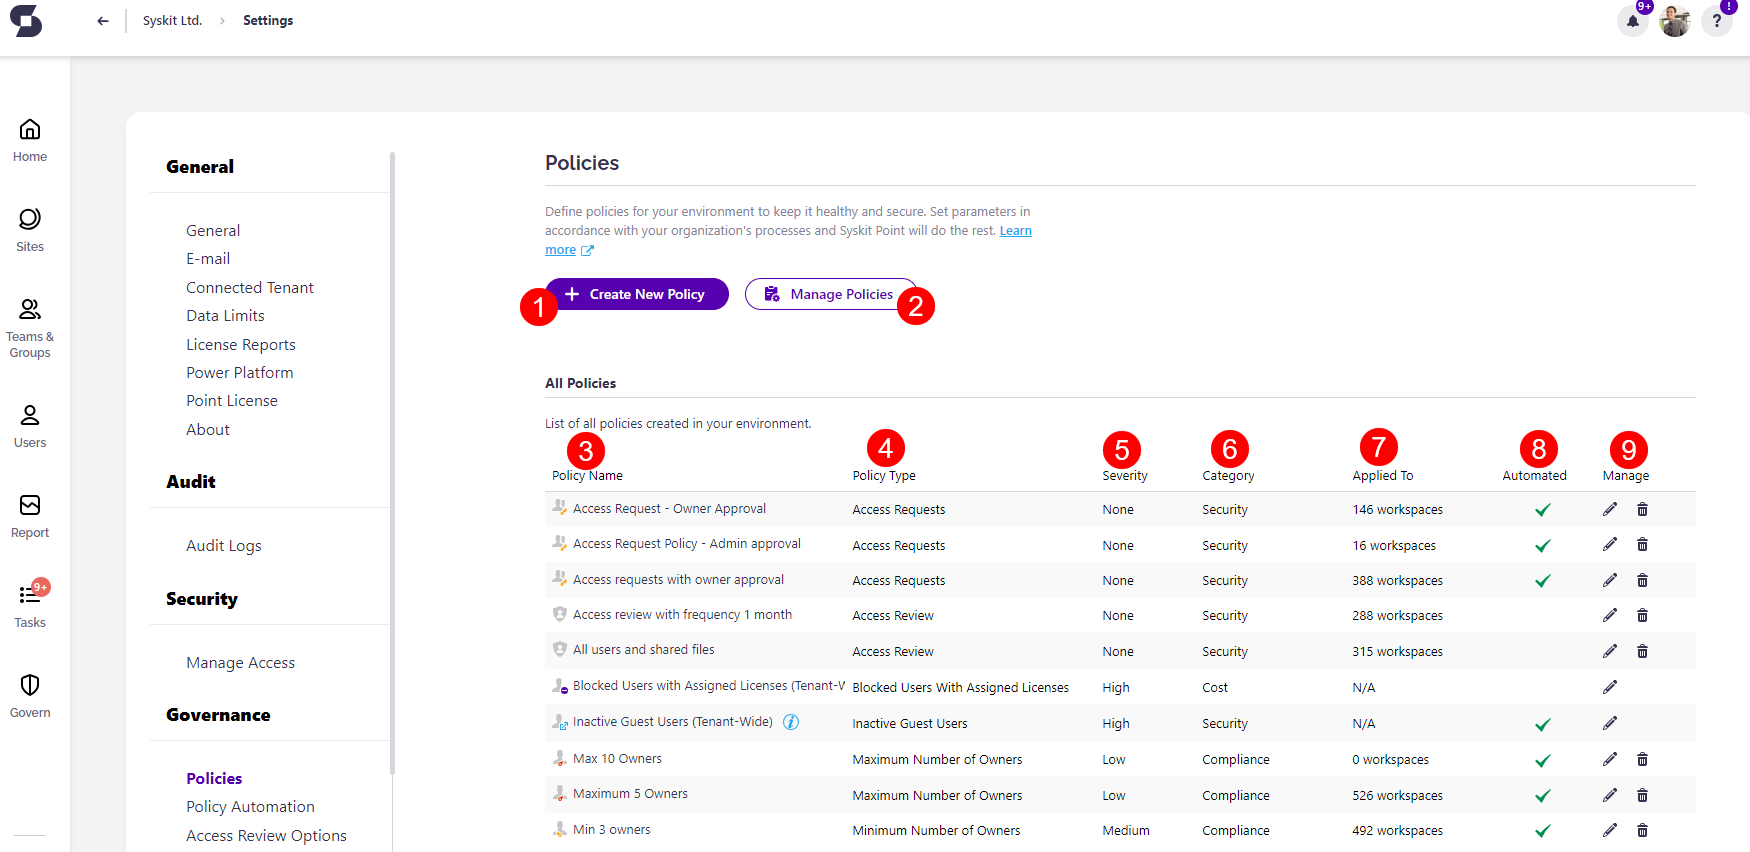
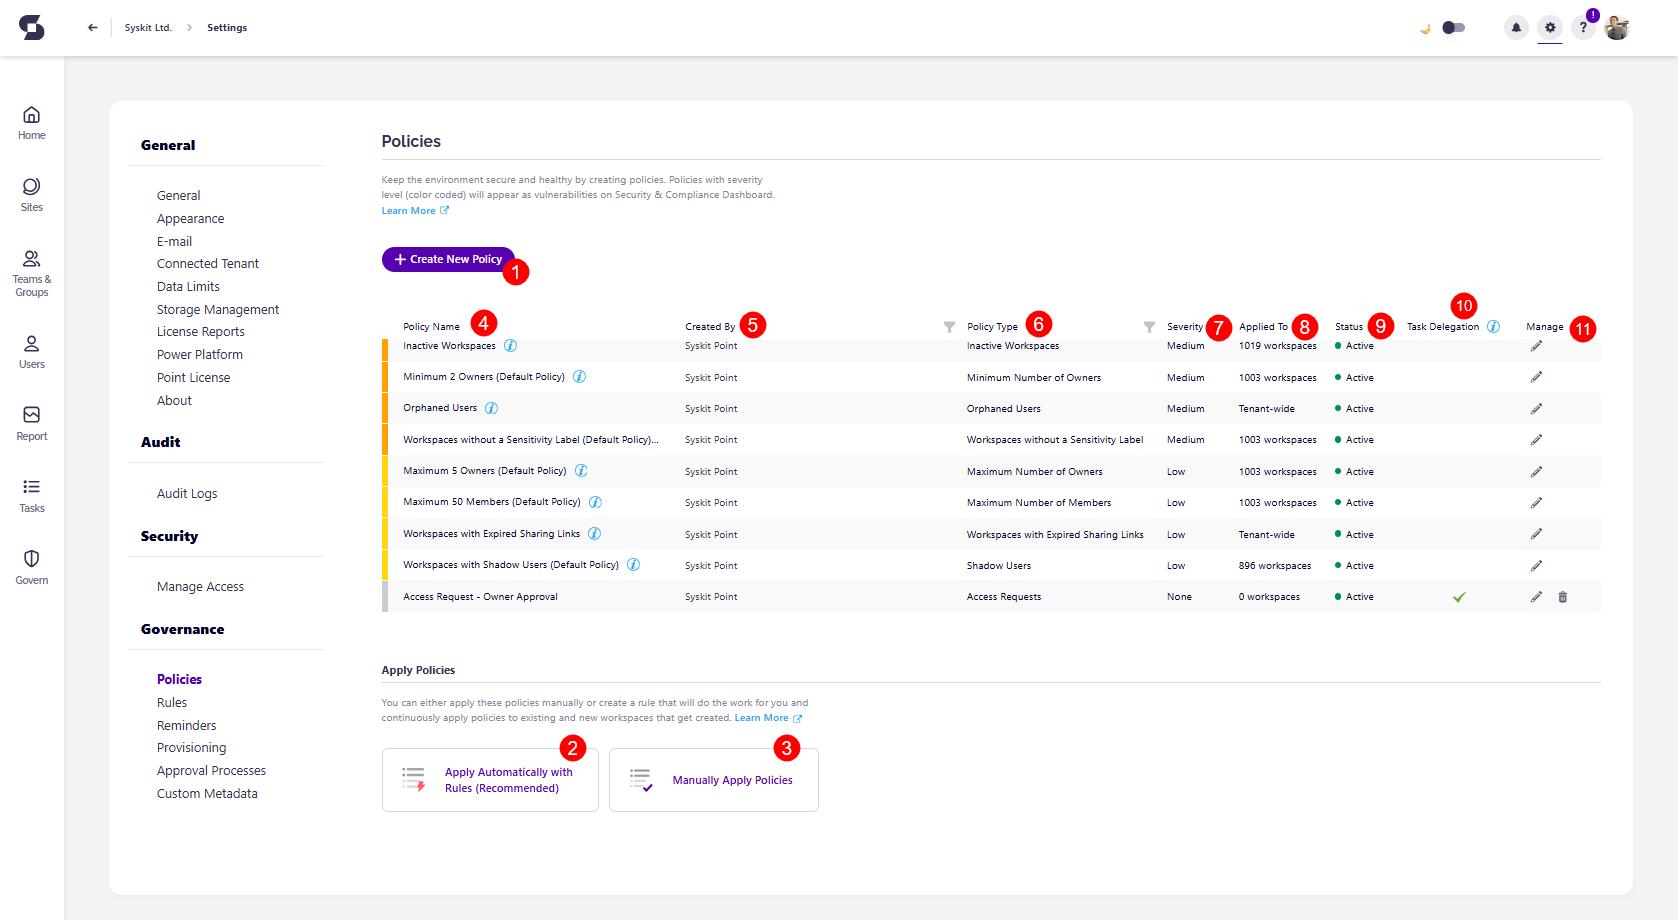
updates & fixes

diff --git a/docs/governance-and-automation/automated-workflows/set-up-policies.md b/docs/governance-and-automation/automated-workflows/set-up-policies.md
@@ -18,7 +18,7 @@ To use the advantages of Policies in Syskit Point, you need to:
 Additionally, you can also [set up policy rules](../../governance-and-automation/automated-workflows/policy-automation.md) to have policies automatically applied to current and all future workspaces without having to assign them manually. 
 
 :::warning
-**Please note!**
+**Please note!**\
 Only users assigned the role of **Syskit Point Admin** can access and configure Settings in Syskit Point.
 :::
 
@@ -58,6 +58,7 @@ Task Delegation can be enabled in policy settings for each policy listed below.
 
 **When task delegation is enabled, Syskit Point creates tasks and sends emails to users as defined in the policy settings**.
 
+:::warning
 **Please note!**\
 Summarized policy vulnerability emails will be gradually rolled out, beginning with the Point Cloud 2024.2.45 release.
 After this change, Syskit Point will no longer send individual e-mails for each workspace or user where a policy vulnerability was discovered.  
@@ -72,7 +73,8 @@ After this change, Syskit Point will no longer send individual e-mails for each 
 * **When you acquire Syskit Point, default policies are created with task delegation disabled.** Edit the default policies settings to enable task delegation.
 
 :::info
-**Please note!** If a user, security group, or mail-enabled security group is added to the Governance-Excluded Users list, they do not receive any Governance-related tasks or task-related e-mails. [For more details on setting up Governance-Excluded Users, take a look at this article.](../../configuration/exclude-users-tasks.md)
+**Please note!**\
+ If a user, security group, or mail-enabled security group is added to the Governance-Excluded Users list, they do not receive any Governance-related tasks or task-related e-mails. [For more details on setting up Governance-Excluded Users, take a look at this article.](../../configuration/exclude-users-tasks.md)
 :::
 
 ## Syskit Point Policies
@@ -122,10 +124,16 @@ To **open the Policies settings screen**, navigate to **Settings** &gt; **Govern
 
 Here, you can:
 * **Create a new policy (1)**
-* **Manage and apply policies to Microsoft Teams, Microsoft 365 Groups, OneDrive, and sites (2)**
-* **View all predefined policies by name (3)**; Syskit Point comes with multiple predefined policies to help you get started.
-* **View additional information about each policy**; the following information is available: **policy type (4)**, **severity of policy(5)**, **category policy fits under (6)**, **to how many workspaces a policy is applied (7)**, and **whether the policy is automated or not (8)**
-* **Manage policies (9)**; **Edit** and **Delete** actions are provided for each policy, **except for those applied tenant-wide and the default policies used by the default rule.**
+* **Apply policies to workspaces based on conditions via Rules (2) or manually (3) by selecting the desired workspaces**.
+* **View all predefined policies by name (4)**; Syskit Point comes with multiple predefined policies to help you get started.
+* **View additional information about each policy**:
+  * **Created By (5)**
+  * **Policy Type (6)**
+  * **Severity (7)**,
+  * **To how many workspaces a policy is applied (8)**
+  * **Status (9)**  
+  * **Task Delegation (10)** status - Enabled or not
+* **Manage policies (11)**; **Edit** and **Delete** actions are provided for each policy, **except for those applied tenant-wide and the default policies used by the default rule, which cannot be deleted.**
 
 ![Policy Settings](../../../static/img/set-up-policies-settings.png)
 
@@ -140,10 +148,12 @@ When you decide to modify existing governance policies, there is a notification 
   * Once changes are made, previously detected vulnerabilities and tasks are examined again and closed if the workspace no longer violates the defined parameters. 
   * All workspaces are rechecked; if any vulnerabilities now exist, they are detected, and tasks are created if needed.
  * **Turning on the task delegation for the first time results in tasks being created and emails being sent** within 24 hours.
-* **Modifying the task delegation options**, in case the task delegation is already enabled for a policy, results in new options being applied to future vulnerabilities. **Existing tasks stay the same.
+* **Modifying the task delegation options**, in case the task delegation is already enabled for a policy, results in new options being applied to future vulnerabilities. 
+* **Existing tasks stay the same**.
 
 :::info
-**Hint**! If you want to apply new task delegation options to all tasks, turn off task delegation - which closes all existing tasks - and turn it on again, which creates new tasks with the new settings applied. 
+**Hint**!\
+ If you want to apply new task delegation options to all tasks, turn off task delegation - which closes all existing tasks - and turn it on again, which creates new tasks with the new settings applied. 
 
 :::
 

diff --git a/docs/governance-and-automation/security-compliance-checks/overview.md b/docs/governance-and-automation/security-compliance-checks/overview.md
@@ -11,8 +11,8 @@ The **Security and Compliance Checks**, visible directly on your Syskit Point ho
 Collecting all the important information about the security and compliance state of your environment is a time-consuming and repetitive administration task. **Syskit Point performs regular security and compliance checks** for you, and **presents the results directly on your home screen**.
 
 :::info
-**Please note:** The Security and Compliance checks **email is sent to Syskit Point admins weekly**, on Wednesdays.
-
+**Please note!**\
+The Security and Compliance checks **email is sent to Syskit Point admins weekly**, on Wednesdays.
 * If there are no vulnerabilities in your environment, no email is sent.
 * If Wednesday is less than 2 days from your installation date, the email will be sent next week.
 :::
@@ -79,5 +79,6 @@ Take a look at the following articles to learn how to settle your security and c
 * [**Workspaces with shadow users**](workspaces-with-shadow-users.md)
 
 :::warning
-**Please note!**   In case you have any security and compliance checks that need to be resolved, an **email is automatically sent each Wednesday** to Syskit Point admins. Click the **Resolve button** within the email to access the reports in Syskit Point directly and perform the needed actions.
+**Please note!**\
+   In case you have any security and compliance checks that need to be resolved, an **email is automatically sent each Wednesday** to Syskit Point admins. Click the **Resolve button** within the email to access the reports in Syskit Point directly and perform the needed actions.
 :::

diff --git a/docs/governance-and-automation/security-compliance-checks/workspaces-with-expired-sharing-links.md b/docs/governance-and-automation/security-compliance-checks/workspaces-with-expired-sharing-links.md
@@ -6,7 +6,7 @@ description: This article provides information on the Workspaces with Expired Sh
 
 Syskit Point detects expired sharing links in workspaces, which should be deleted to reduce clutter and increase security.
 
-Expired sharing links don't provide access anyway; therefore, deleting them poses a low-impact action, but still contributes to improved security posture of your tenant.
+Expired sharing links don't provide access anyway; therefore, deleting them poses a low-impact action, but still contributes to the improved security posture of your tenant.
 
 ## Workspaces with Expired Sharing Links Policy
 
@@ -44,8 +44,9 @@ You can also:
   * Click the button to open the Workspaces with Expired Sharing Links policy settings and select from one of the available automation options.
   * **Syskit Point can automatically remove expired sharing links and resolve the vulnerability**, which is the recommended option here.
 
-:::info
-* **It can take up to 24 hours for the vulnerabilities to appear on the Security & Compliance dashboard and for the expired sharing links to be deleted if the automatic resolving option is selected.**
+:::warning
+* **Please note!**\
+**It can take up to 24 hours for the vulnerabilities to appear on the Security & Compliance dashboard and for the expired sharing links to be deleted if the automatic resolving option is selected.**
 :::
 
 ![Workspaces with Expired Sharing Links](../../../static/img/security-compliance-checks-workspaces-with-expired-sharing-links.png)
